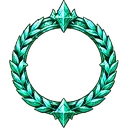
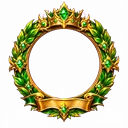
Арт РМ-2 (Рамка основателя) и ЭК-1 (значки: заявки, заточка, GRAM-лига, тираж, экономика) — нарезка и подключение
Claude-Session: https://claude.ai/code/session_01E73Aa6Ky3LhDQAqfWhqYiQ

diff --git a/public/js/town.js b/public/js/town.js
@@ -213,7 +213,7 @@ window.Town = (() => {
     const r = await Bag.act('gmLtd');
     if (r.error) return toast(r.error);
     const L = r.ltd;
-    const box = el(`<div class="tw-banner pass"><b>⭐ Тираж «${L.name}» · осталось ${L.left} из ${L.of}</b>
+    const box = el(`<div class="tw-banner pass"><b><img class="ui-ic" src="assets/ui/ic_limited.webp" alt=""> Тираж «${L.name}» · осталось ${L.left} из ${L.of}</b>
       <small>Мифические вещи с номером #N/${L.of}: +10% ко всем свойствам. Больше никогда не появятся — после распродажи только у игроков в Торговом доме. Не больше ${L.perUser} в одни руки (у вас ${L.mine}). Вещь — под класс вашего героя, мир ${ROMAN[L.tier] || L.tier}.</small></div>`);
     box.prepend(el('<button class="l2-btn wide ghost">‹ Весь Рынок</button>'));
     box.querySelector('button').onclick = () => gramMarketPanel();
@@ -232,7 +232,7 @@ window.Town = (() => {
     if (!Bag.inv || !Bag.inv()) await Bag.refresh(); // названия характеристик для бонусов комплекта
     const r = await Bag.act('gmShop', { cat, cls });
     if (r.error) return toast(r.error);
-    const cats = { ltd: '⭐ Тираж', set: 'Комплекты', ...WEAR_RU };
+    const cats = { ltd: '<img class="ui-ic" src="assets/ui/ic_limited.webp" alt="">Тираж', set: 'Комплекты', ...WEAR_RU };
     const box = el(`${balLine(r.bal)}<p class="sheet-hint">Все вещи от эпических за GRAM — экипировка мира ${ROMAN[r.tier] || r.tier}. Выберите слот или комплект и класс героя, для которого покупаете.<br>Основные свойства — как на карточке, дополнительные выпадают случайно при покупке. Отборные вещи (свойства +25% и одно дополнительное) — только в призыве снаряжения.</p>
       <div class="gram-cats">${Object.entries(cats).map(([k, n]) => `<button class="l2-btn ${k === r.cat ? 'on' : ''}" data-cat="${k}">${n}</button>`).join('')}</div>
       ${r.cat !== 'rune' ? `<div class="gram-cats cls">${r.classes.map((c) => `<button class="l2-btn ${c.id === r.cls ? 'on' : ''}" data-cls="${c.id}"><img class="ui-ic" src="assets/ui/cls_${c.id}.webp" alt="">${c.name}${c.id === r.own ? ' · ваш' : ''}</button>`).join('')}</div>` : ''}
@@ -298,9 +298,9 @@ window.Town = (() => {
       return box;
     };
     // Заявки на покупку: чужие — «Продать», свои — «Снять» и «＋ Новая заявка»
-    const bidRow = (b, label, on) => row(b.item || { icon: '📜', name: b.name }, `${b.name}${b.mat ? ' ×' + b.n : ''}`, `${gfmt(b.price)} GRAM за шт. · ${b.buyer}${histTxt(b.hist)}`, label, on);
+    const bidRow = (b, label, on) => row(b.item || null, `${b.item ? '' : '<img class="ui-ic" src="assets/ui/ic_bids.webp" alt=""> '}${b.name}${b.mat ? ' ×' + b.n : ''}`, `${gfmt(b.price)} GRAM за шт. · ${b.buyer}${histTxt(b.hist)}`, label, on);
     const bidsTab = () => {
-      const box = el(`${balLine(r.bal)}<p class="sheet-hint">Игроки заранее заморозили GRAM и ждут товар. Есть подходящая вещь или материалы — продайте сразу, оплата придёт мгновенно (к выводу через 3 дня), комиссия как у лотов.</p>`);
+      const box = el(`${balLine(r.bal)}<p class="sheet-hint"><img class="ui-ic" src="assets/ui/ic_bids.webp" alt=""> Игроки заранее заморозили GRAM и ждут товар. Есть подходящая вещь или материалы — продайте сразу, оплата придёт мгновенно (к выводу через 3 дня), комиссия как у лотов.</p>`);
       bindWallet(box);
       const list = r.bids.filter((b) => !b.mine);
       if (!list.length) box.insertAdjacentHTML('beforeend', soon('Заявок пока нет'));
@@ -645,7 +645,7 @@ window.Town = (() => {
       // GRAM-лига: взнос, призовой фонд 90%, тройке — 50/30/20%
       const G = T.gl;
       if (G) {
-        const gl = el(`<div class="tw-banner hero tour"><b>💰 GRAM-лига · фонд ${G.pool.toFixed(2)} GRAM · участников ${G.n}</b>
+        const gl = el(`<div class="tw-banner hero tour"><b><img class="ui-ic" src="assets/ui/ic_gramleague.webp" alt=""> GRAM-лига · фонд ${G.pool.toFixed(2)} GRAM · участников ${G.n}</b>
           <small>Взнос ${G.fee} GRAM, с ${G.lvl} уровня. В зачёт — очки турнира после взноса. Призовой фонд — 90% взносов: 🥇 ${G.share[0] * 100}% · 🥈 ${G.share[1] * 100}% · 🥉 ${G.share[2] * 100}%. Если участников меньше ${G.min} — взносы вернутся. Призы можно вывести через 3 дня.</small>
           ${G.top.length ? `<div class="tour-top">${G.top.map((t, i) => `<div class="top-row"><span>${i < 3 ? ['🥇', '🥈', '🥉'][i] : i + 1}</span><b class="notr"></b><em>${t.pts}</em></div>`).join('')}</div>` : ''}
           ${G.last.length ? `<small>Прошлая неделя: ${G.last.map((w, i) => `${['🥇', '🥈', '🥉'][i]} ${w.name} +${w.gram} GRAM`).join(' · ')}</small>` : ''}

diff --git a/public/js/main.js b/public/js/main.js
@@ -755,6 +755,7 @@
           <p class="sheet-hint">В Торговом доме сейчас лотов: ${e.lots}, заявок на покупку: ${e.bids}. Тираж «${e.ltd.name}»: осталось ${e.ltd.left} из ${e.ltd.of}.</p>
           <div class="ic-sec">Крупные сделки недели</div>
           ${e.top.map((d) => `<div class="tw-ev"><div><b>${d.name}</b><small>${new Date(d.t).toLocaleDateString('ru-RU')}</small></div><b>${g(d.price)} GRAM</b></div>`).join('') || '<div class="tw-soon">Сделок пока нет — станьте первым</div>'}`;
+        box.insertAdjacentHTML('afterbegin', '<img class="place-ic big" src="assets/ui/ic_economy.webp" alt="" style="display:block;margin:0 auto 6px;width:72px;height:72px">');
         Town.open('📊 Экономика игры', box);
       };
       // ---------- Пригласить друга (окно — public/js/invite.js, то же, что в лобби) ----------
@@ -891,7 +892,7 @@
       const menuRow = (icon, name, desc, fn) => {
         const r = document.createElement('button');
         r.className = 'nav-row';
-        r.innerHTML = `<span>${/^[a-z]+$/.test(icon) ? `<img class="place-ic big" src="assets/ui/${icon === "chat" ? "nav_chat" : icon === "auto" ? "ic_atk" : "place_" + icon}.webp" alt="">` : icon}</span><div><b>${name}</b><small>${desc}</small></div><i>›</i>`;
+        r.innerHTML = `<span>${/^ic_[a-z]+$/.test(icon) ? `<img class="place-ic big" src="assets/ui/${icon}.webp" alt="">` : /^[a-z]+$/.test(icon) ? `<img class="place-ic big" src="assets/ui/${icon === "chat" ? "nav_chat" : icon === "auto" ? "ic_atk" : "place_" + icon}.webp" alt="">` : icon}</span><div><b>${name}</b><small>${desc}</small></div><i>›</i>`;
         r.onclick = fn;
         if (icon === 'pass' && passReadyN > 0) r.classList.add('nav-dot'); // есть награды пропуска
         return r;
@@ -1022,7 +1023,7 @@
           ['party', 'Пригласить друга', 'Своя ссылка: другу — самоцветы и призыв, вам — награды за его уровни и 10% с его покупок', () => openInvite()],
           ['party', 'Группа', 'До 4 игроков: общий опыт, добыча и данжи', openParty],
           ['market', 'GRAM-кошелёк', 'Баланс, пополнение, вывод денег с продаж, торговые ордена', () => Town.openPlace('wallet')],
-          ['market', 'Экономика игры', 'Оборот Торгового дома, выплаты игрокам, крупные сделки недели', () => openEconomy()],
+          ['ic_economy', 'Экономика игры', 'Оборот Торгового дома, выплаты игрокам, крупные сделки недели', () => openEconomy()],
           ['clan', 'Клан', 'Свой клан: участники, задания, хранилище, чат', openClan],
           ['trainer', 'Энциклопедия', 'Всё об игре: развитие, снаряжение, крафт, руны, призывы, данжи, боссы, расписание', () => Wiki.open()],
           ['arena', 'Рейтинги', 'Лучшие по уровню, силе, кланы и урону мировым боссам за неделю', () => openRanks()],
